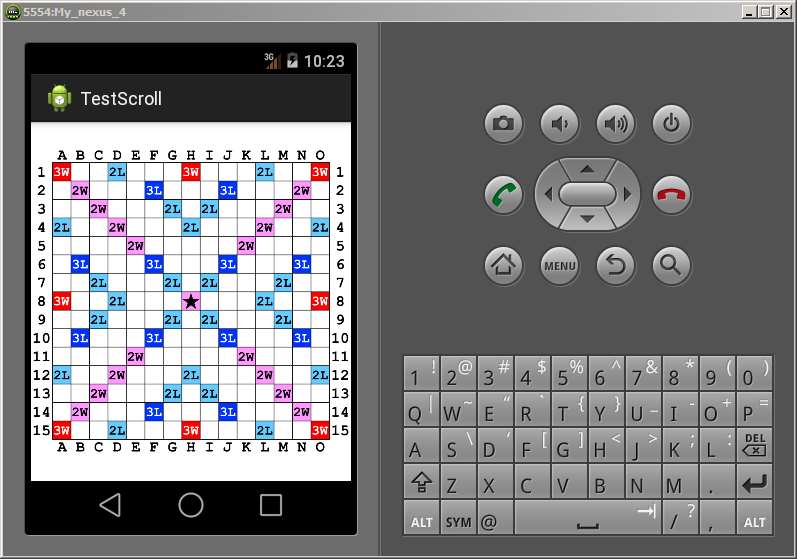
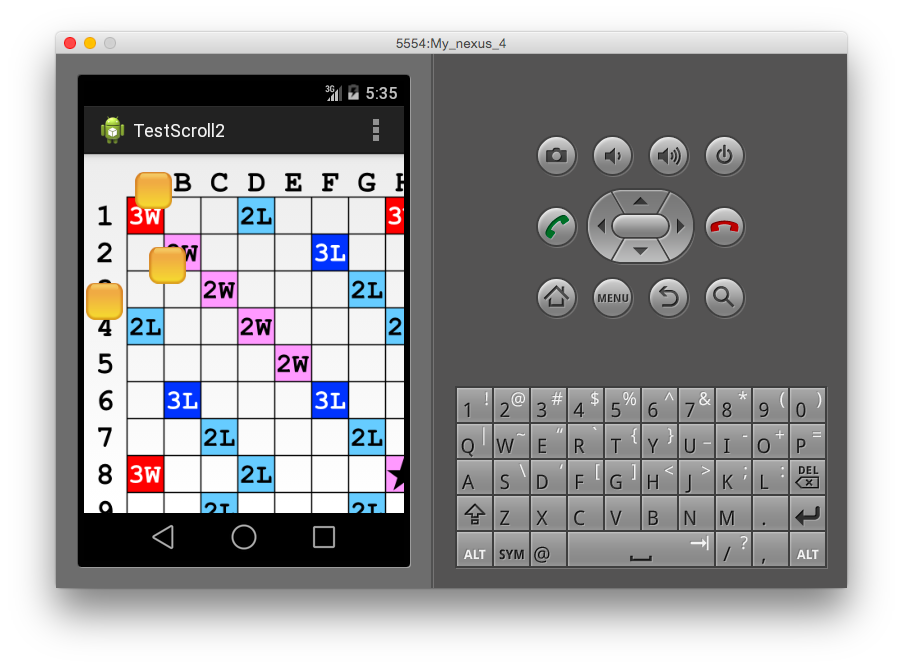
Fix tile bounds

diff --git a/TestScroll2/src/de/afarber/testscroll2/MyView.java b/TestScroll2/src/de/afarber/testscroll2/MyView.java
@@ -99,7 +99,7 @@ public class MyView extends View {
     }
     
     @Override
-    protected void onSizeChanged (int w, int h, int oldW, int oldH) {
+    protected void onSizeChanged(int w, int h, int oldW, int oldH) {
         super.onSizeChanged(w, h, oldW, oldH);
         
     	mMinZoom = Math.min((float) getWidth() / (float) mGameBoard.getIntrinsicWidth(), 
@@ -117,12 +117,16 @@ public class MyView extends View {
         );
 
         for (Drawable tile: mTiles) {
+        	int x = mRandom.nextInt(100);
+        	int y = mRandom.nextInt(200);
         	tile.setBounds(
-    			mRandom.nextInt(300), 
-    			mRandom.nextInt(400), 
-    			tile.getIntrinsicWidth(), 
-    			tile.getIntrinsicHeight()
+        		x,
+        		y,
+    			x + tile.getIntrinsicWidth(), 
+    			y + tile.getIntrinsicHeight()
     		);
+        	
+	    	Log.d("onSizeChanged", "tile=" + tile.getBounds());
         }
     }
     
